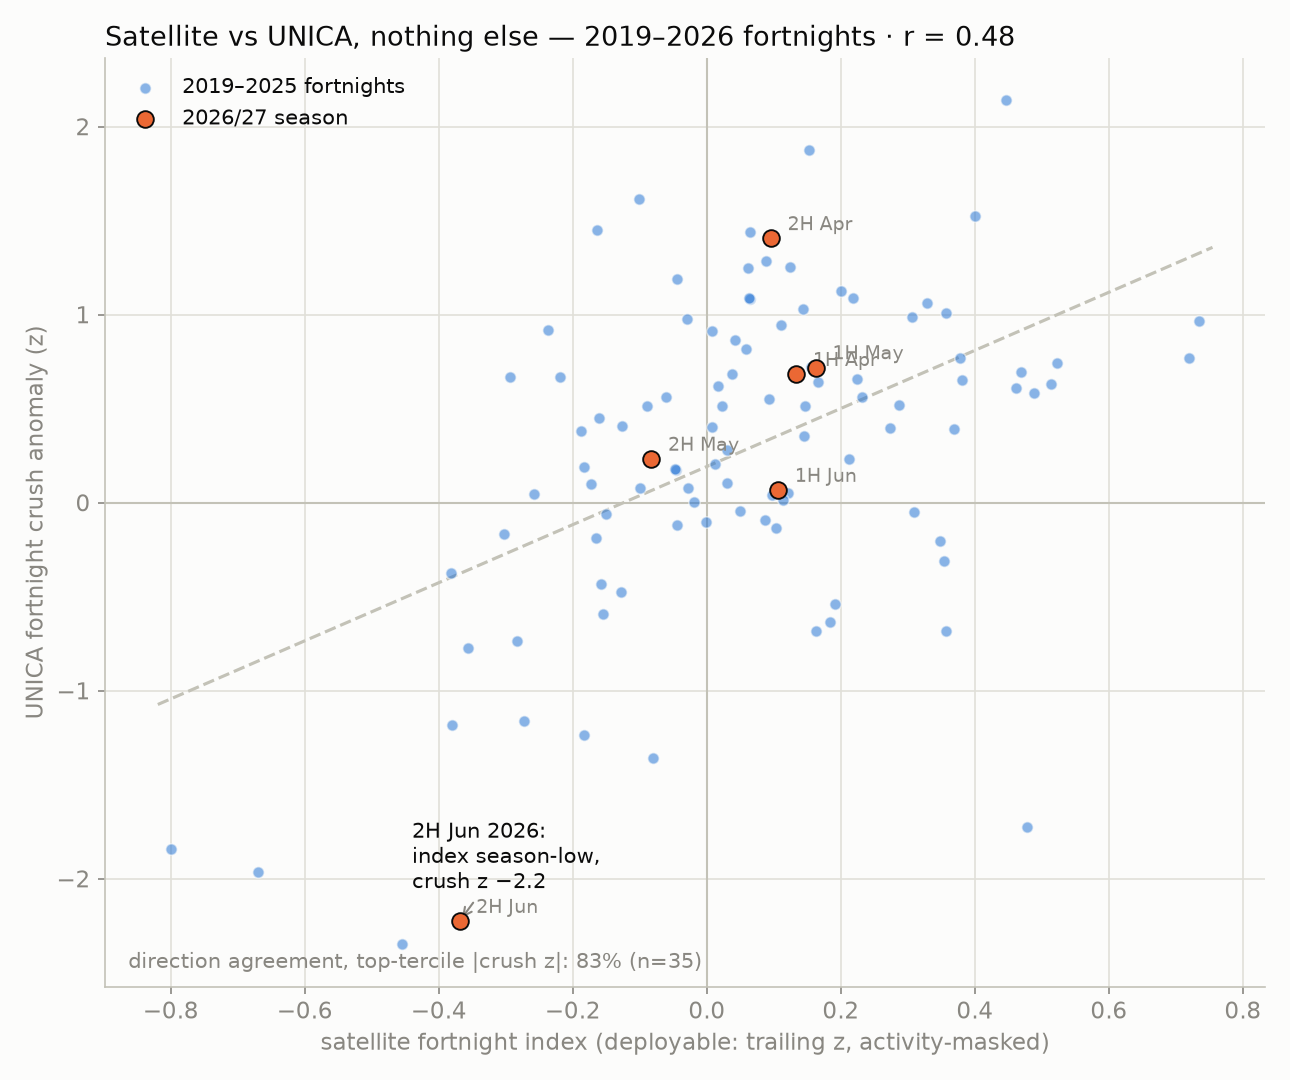
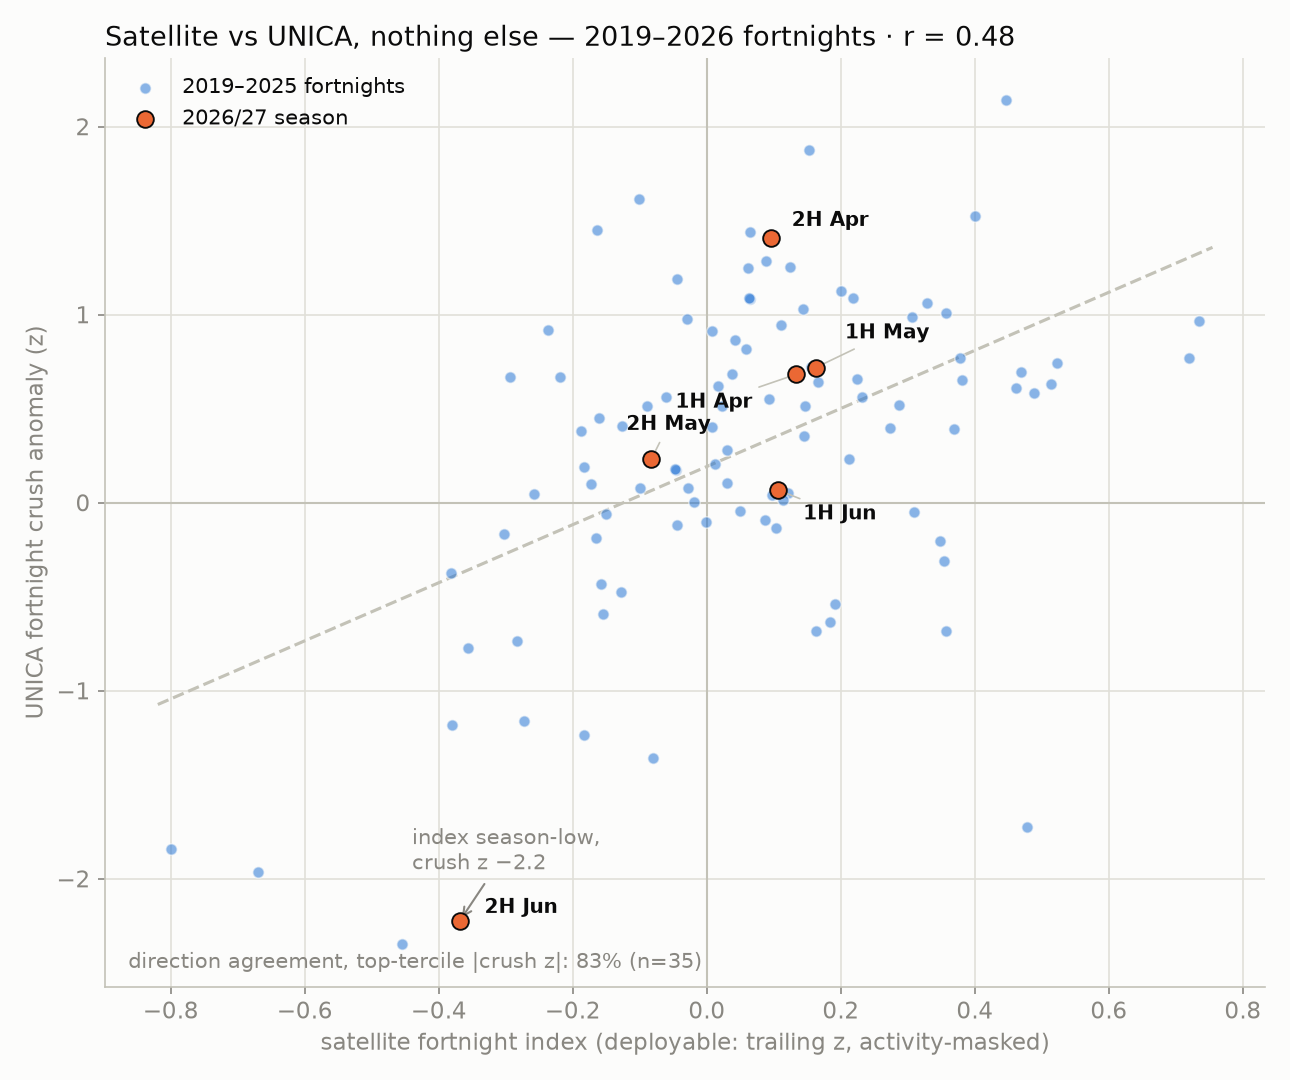
Label all 2026/27 fortnights on the satellite-vs-UNICA scatter
Claude-Session: https://claude.ai/code/session_01Ab1Yzbt87uPbQ7ZCvgXKVR

diff --git a/thermal/scripts/make_sat_scatter.py b/thermal/scripts/make_sat_scatter.py
@@ -54,13 +54,20 @@ ax.scatter(hist.sat_idx, hist.crush_z, s=30, color=BLUE, alpha=0.55,
            edgecolors=SURF, lw=0.8, zorder=3, label="2019–2025 fortnights")
 ax.scatter(cur.sat_idx, cur.crush_z, s=64, color=ORANGE, edgecolors=INK,
            lw=0.9, zorder=5, label="2026/27 season")
+# hand-placed labels so none collide (1H Apr and 1H May nearly coincide)
+OFFSETS = {(4, 1): (-58, -16), (4, 2): (10, 6), (5, 1): (14, 14),
+           (6, 1): (12, -14), (5, 2): (-12, 14), (6, 2): (12, 4)}
 for _, row in cur.iterrows():
+    dx, dy = OFFSETS.get((row.month, row.half), (8, 4))
     ax.annotate(row.lab.replace(" 2026", ""), xy=(row.sat_idx, row.crush_z),
-                xytext=(8, 4), textcoords="offset points", fontsize=9, color=MUTED)
+                xytext=(dx, dy), textcoords="offset points", fontsize=9.5, color=INK,
+                fontweight="bold",
+                arrowprops=dict(arrowstyle="-", color=BASE, lw=0.8, shrinkB=3)
+                if abs(dx) + abs(dy) > 24 else None)
 jj = cur[(cur.month == 6) & (cur.half == 2)]
 if len(jj):
-    ax.annotate("2H Jun 2026:\nindex season-low,\ncrush z −2.2", xy=(jj.sat_idx.iloc[0], jj.crush_z.iloc[0]),
-                xytext=(-0.44, -2.05), fontsize=10, color=INK,
+    ax.annotate("index season-low,\ncrush z −2.2", xy=(jj.sat_idx.iloc[0], jj.crush_z.iloc[0]),
+                xytext=(-0.44, -1.95), fontsize=10, color=MUTED,
                 arrowprops=dict(arrowstyle="->", color=MUTED))
 # quadrant shading: agreement quadrants
 ax.axhline(0, color=BASE, lw=1)
